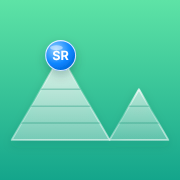
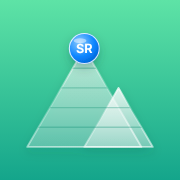
Rosen tracker: small peak overlapping in front of the big one
Claude-Session: https://claude.ai/code/session_011jQqderacJY9KfRdcYmoMk

Changed region(s): [[0.0556, 0.1667, 0.9444, 0.8333]]

diff --git a/gpt100/sw.js b/gpt100/sw.js
@@ -1,5 +1,5 @@
 // Rosen tracker service worker: network first for the page, cache fallback when offline. Live data is never cached.
-const CACHE = 'rosen-v9';
+const CACHE = 'rosen-v10';
 const SHELL = ['./', './index.html', './manifest.webmanifest', './icon-192.png', './icon-512.png'];
 self.addEventListener('install', e => { e.waitUntil(caches.open(CACHE).then(c => c.addAll(SHELL)).catch(() => {})); self.skipWaiting(); });
 self.addEventListener('activate', e => { e.waitUntil(caches.keys().then(keys => Promise.all(keys.filter(k => k !== CACHE).map(k => caches.delete(k))))); self.clients.claim(); });
